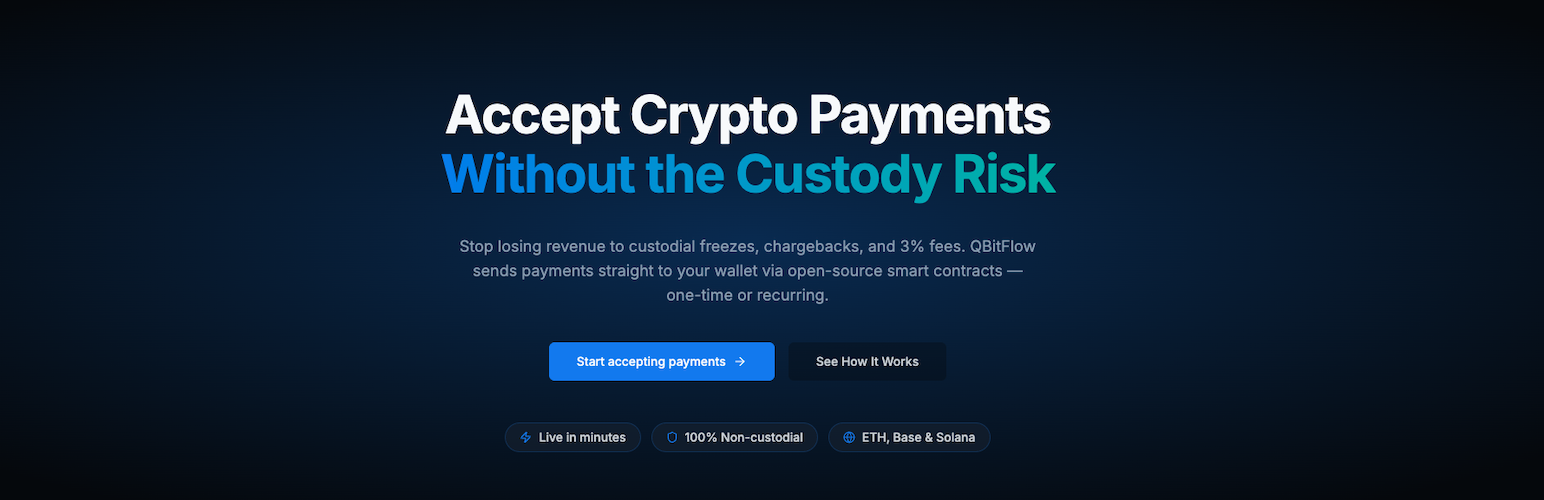
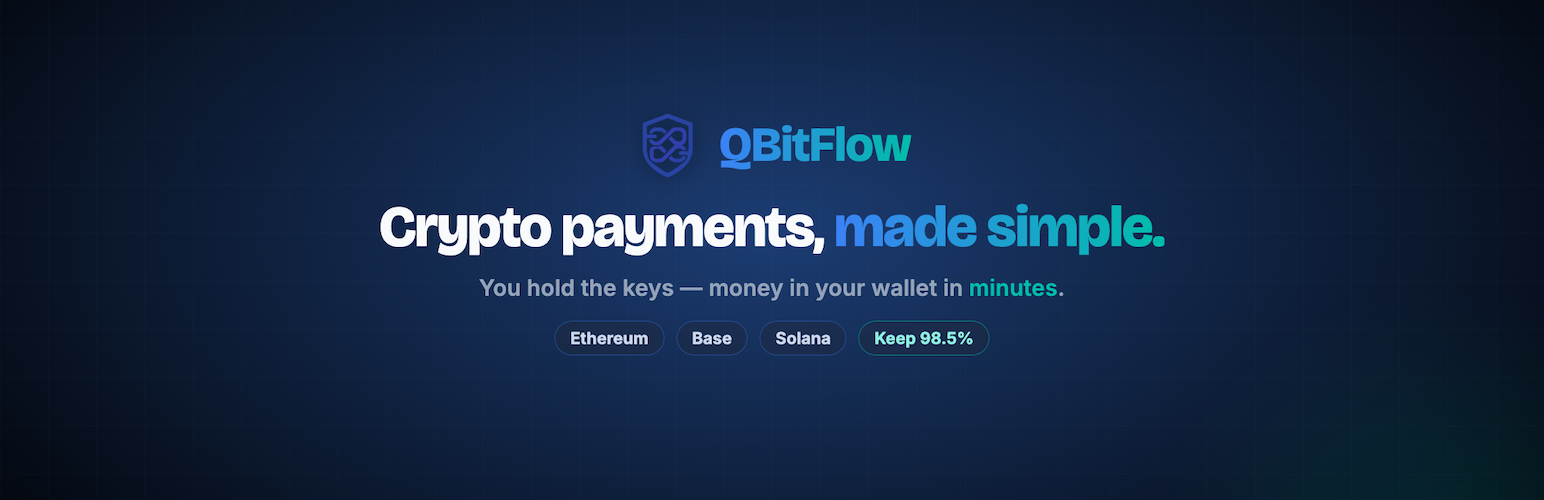
Release 1.1.5

diff --git a/qbitflow-for-woocommerce.php b/qbitflow-for-woocommerce.php
@@ -4,7 +4,7 @@
  * Plugin Name: QBitFlow for WooCommerce
  * Plugin URI: https://qbitflow.app
  * Description: Accept cryptocurrency payments in WooCommerce via QBitFlow. Non-custodial — funds go directly to your wallet.
- * Version: 1.1.2
+ * Version: 1.1.5
  * Author: QBitFlow
  * License: GPL-2.0-or-later
  * License URI: https://www.gnu.org/licenses/gpl-2.0.html
@@ -21,7 +21,7 @@ if (! defined('ABSPATH')) {
 	exit;
 }
 
-define('QBITFLOW_WC_VERSION', '1.1.2');
+define('QBITFLOW_WC_VERSION', '1.1.5');
 define('QBITFLOW_WC_PLUGIN_DIR', plugin_dir_path(__FILE__));
 define('QBITFLOW_WC_PLUGIN_URL', plugin_dir_url(__FILE__));
 define('QBITFLOW_WC_API_BASE', 'https://api.qbitflow.app/v1');

diff --git a/CHANGELOG.md b/CHANGELOG.md
@@ -2,6 +2,10 @@
 
 All notable changes to this project will be documented in this file.
 
+## [1.1.5] - 2026-07-30
+- Updating Screenshots
+- Ready for publishing
+
 ## [1.1.2] - 2026-07-25
 
 ### Added
